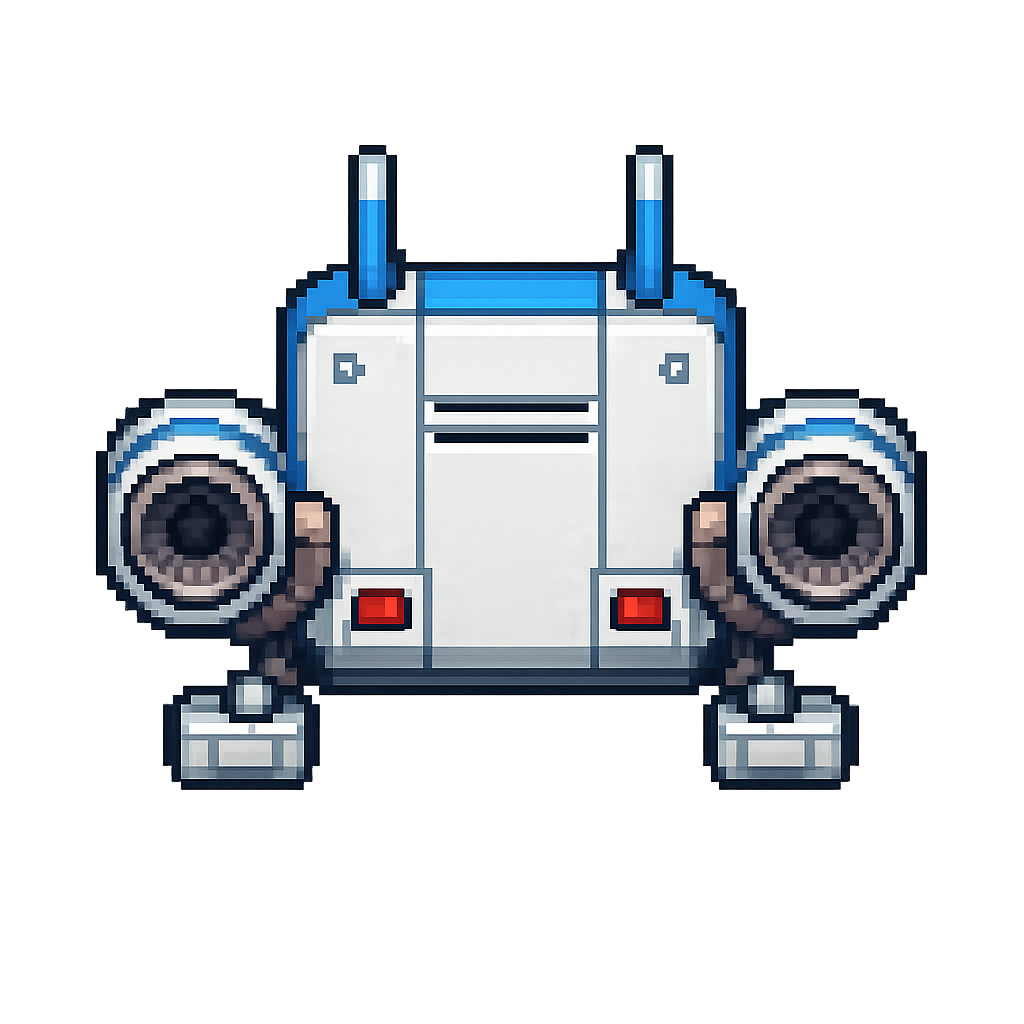
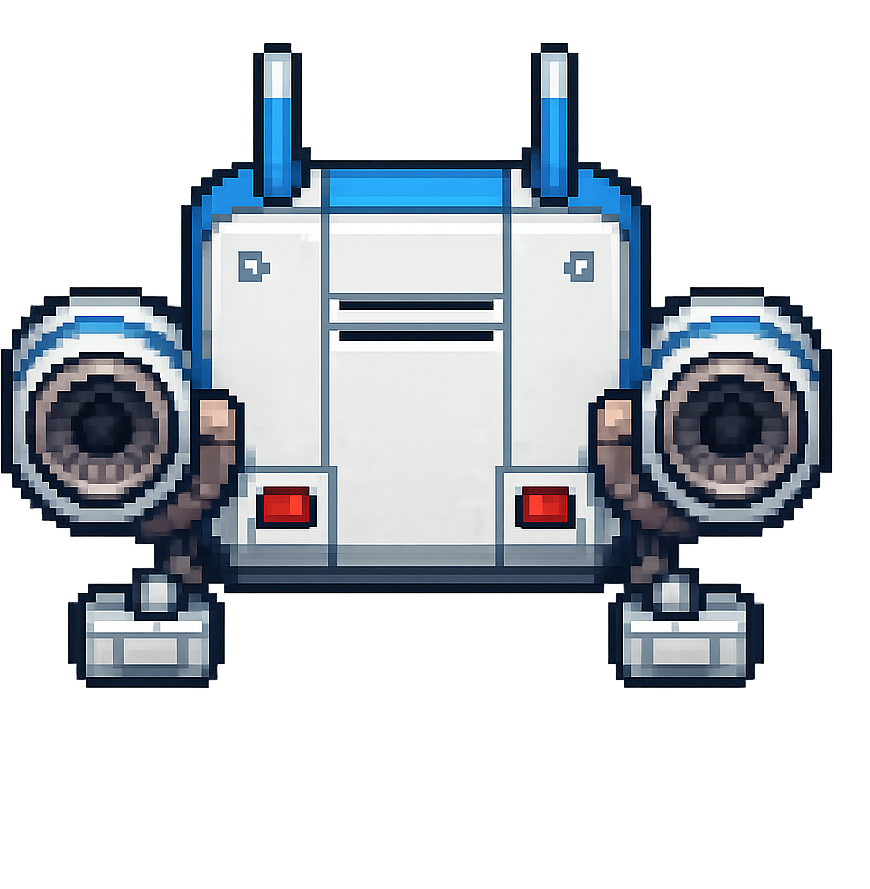
Score-gated biome progression + match rear mech size
- Biomes now advance with score instead of random per run:
  Savannah 1–500, Forest 500–1500, Arctic 1500–3000, Mystic 3000–5000,
  Genesis 5000–10000, Luna's Landing 10000+. setBiome() swaps palette,
  rebuilds the item pool, reseeds weather, and flashes the name banner on
  each threshold crossing. Runs always start in Savannah.
- Cropped mech rear.png to its content bounds (was 1024² with ~13% padding)
  so it renders at the same on-screen size as the left/right banking sprites;
  updated rear aspect (0.979) and thruster anchors accordingly.

diff --git a/endless-dodge/game.js b/endless-dodge/game.js
@@ -42,6 +42,9 @@
     return VW / 2 + worldX * TRACK_HALF_PX * scaleAt(z);
   }
 
+  // Player sits at this depth (red line on the screen). Obstacles collide here, not at z=0.
+  const PLAYER_Z = 0.18;
+
   // ---- Biomes ----
   // Each biome defines a palette for sky/hills/ground + a weather type.
   // Item pools come from assets/items-manifest.json (biome key + "any" fallback).
@@ -97,6 +100,17 @@
   };
   const BIOME_KEYS = Object.keys(BIOMES);
 
+  // Score-gated biome progression (the run advances through biomes as score climbs).
+  function biomeKeyForScore(s) {
+    if (s < 500)   return 'savannah';   // 1–500
+    if (s < 1500)  return 'forest';     // 500–1500
+    if (s < 3000)  return 'arctic';     // 1500–3000
+    if (s < 5000)  return 'mystic';     // 3000–5000
+    if (s < 10000) return 'genesis';    // 5000–10000
+    return 'luna';                      // 10000+
+  }
+  let currentBiomeKey = 'savannah';
+
   // ---- Item assets ----
   let manifest = null;          // { savannah:[...], ..., any:[...] }
   const itemCache = new Map();  // filename -> Image
@@ -139,13 +153,14 @@
   mechRear.onload  = () => { mechReady |= 1; };
   mechRight.onload = () => { mechReady |= 2; };
   mechLeft.onload  = () => { mechReady |= 4; };
-  mechRear.src  = 'assets/mech%20rear.png?v=1';
+  mechRear.src  = 'assets/mech%20rear.png?v=2';
   mechRight.src = 'assets/mech%20right.png?v=1';
   mechLeft.src  = 'assets/mech%20left.png?v=1';
 
   // Per-sprite metadata: aspect (w/h) and thruster nozzle anchors as fractions of drawn (w, h).
+  // Rear sprite was cropped to its content bounds so it draws at the same size as left/right.
   const SPRITES = {
-    rear:  { img: mechRear,  bit: 1, aspect: 1.00, left: { x: 0.254, y: 0.625 }, right: { x: 0.746, y: 0.625 } },
+    rear:  { img: mechRear,  bit: 1, aspect: 0.979, left: { x: 0.190, y: 0.605 }, right: { x: 0.769, y: 0.605 } },
     right: { img: mechRight, bit: 2, aspect: 1.13, left: { x: 0.128, y: 0.635 }, right: { x: 0.872, y: 0.635 } },
     left:  { img: mechLeft,  bit: 4, aspect: 1.13, left: { x: 0.128, y: 0.635 }, right: { x: 0.872, y: 0.635 } },
   };
@@ -230,13 +245,18 @@
     elapsed = 0;
     spawnTimer = 0;
     forwardSpeed = 0.55;
-    // Pick a random biome for this run.
-    const key = BIOME_KEYS[Math.floor(Math.random() * BIOME_KEYS.length)];
+    // Runs always begin in Savannah; biome advances with score (see update()).
+    setBiome('savannah');
+    seedStripes();
+  }
+
+  // Switch to a biome: swap palette, rebuild item pool, reseed weather, flash banner.
+  function setBiome(key) {
+    currentBiomeKey = key;
     currentBiome = BIOMES[key];
     buildBiomePool(key);
-    bannerTimer = 2.6;
-    seedStripes();
     seedWeather();
+    bannerTimer = 2.6;
   }
 
   function start() {
@@ -257,8 +277,8 @@
     finalEl.style.display = 'block';
     startBtn.textContent = 'Play again';
     overlay.classList.remove('hidden');
-    const sx = projectX(player.worldX, 0);
-    const sy = projectY(0) - player.spriteH * 0.5;
+    const sx = projectX(player.worldX, PLAYER_Z);
+    const sy = projectY(PLAYER_Z) - player.spriteH * 0.5;
     for (let i = 0; i < 28; i++) {
       particles.push({
         x: sx, y: sy,
@@ -343,9 +363,9 @@
       spawnTimer = spawnInterval;
     }
 
-    // Advance obstacles toward camera
+    // Advance obstacles toward camera — keep them alive past the player so they fly off-screen.
     for (const o of obstacles) o.z -= forwardSpeed * dt;
-    obstacles = obstacles.filter(o => o.z > -0.05);
+    obstacles = obstacles.filter(o => o.z > -0.35);
 
     // Ground stripes scroll forward (toward camera)
     for (const s of stripes) {
@@ -356,9 +376,9 @@
     // Weather motion
     updateWeather(dt);
 
-    // Collision: only at near plane (when obstacle z ~ 0)
+    // Collision: when obstacle reaches the player's depth.
     for (const o of obstacles) {
-      if (o.z < 0.06 && o.z > -0.05) {
+      if (o.z < PLAYER_Z + 0.06 && o.z > PLAYER_Z - 0.06) {
         const dx = Math.abs(o.worldX - player.worldX);
         if (dx < o.agW + 0.10) {
           gameOver();
@@ -372,8 +392,8 @@
     if (smokeTimer <= 0) {
       smokeTimer = 0.022;
       const spr = currentSprite();
-      const cx = projectX(player.worldX, 0);
-      const cy = projectY(0);
+      const cx = projectX(player.worldX, PLAYER_Z);
+      const cy = projectY(PLAYER_Z);
       const h  = player.spriteH;
       const w  = h * spr.aspect;
       const px = cx - w / 2;
@@ -398,6 +418,10 @@
 
     score = Math.floor(elapsed * 10);
     scoreEl.textContent = score;
+
+    // Advance biome when the score crosses a threshold.
+    const nextKey = biomeKeyForScore(score);
+    if (nextKey !== currentBiomeKey) setBiome(nextKey);
   }
 
   function updateWeather(dt) {
@@ -500,12 +524,17 @@
     ctx.stroke();
   }
 
-  function drawObstacles() {
-    // Sort far-to-near so near ones draw on top
-    const sorted = obstacles.slice().sort((a, b) => b.z - a.z);
+  function drawObstacles(farOnly) {
+    // Sort far-to-near so near ones draw on top.
+    // farOnly=true: only obstacles still behind the player (behind the mech sprite).
+    // farOnly=false: only obstacles past the player (drawn on top of the mech).
+    let list = obstacles;
+    if (farOnly === true)  list = list.filter(o => o.z >= PLAYER_Z);
+    if (farOnly === false) list = list.filter(o => o.z <  PLAYER_Z);
+    const sorted = list.slice().sort((a, b) => b.z - a.z);
     for (const o of sorted) {
       if (o.z > 1.02) continue;
-      const z = Math.max(o.z, 0);
+      const z = o.z;
       const s = scaleAt(z);
       const cx = projectX(o.worldX, z);
       const cy = projectY(z);
@@ -537,7 +566,7 @@
   }
 
   function drawPlayer() {
-    const z = 0;
+    const z = PLAYER_Z;
     const cx = projectX(player.worldX, z);
     const cy = projectY(z);
     const spr = currentSprite();
@@ -634,8 +663,9 @@
     ctx.clearRect(0, 0, VW, VH);
     drawSky();
     drawGround();
-    drawObstacles();
+    drawObstacles(true);
     if (running || particles.length === 0) drawPlayer();
+    drawObstacles(false);
     drawSmoke();
     drawWeather();
     drawParticles();
